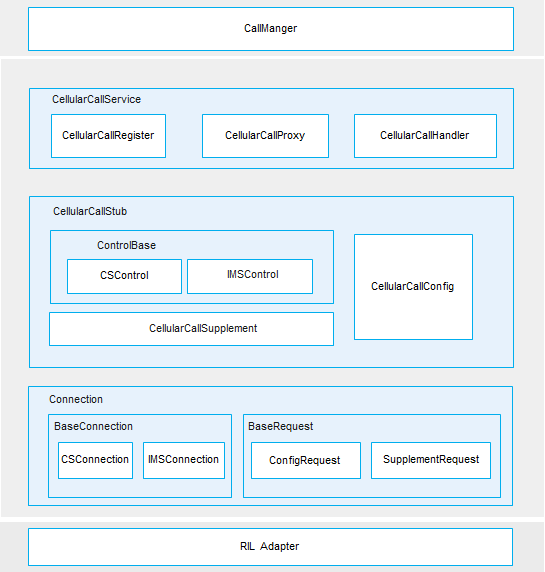
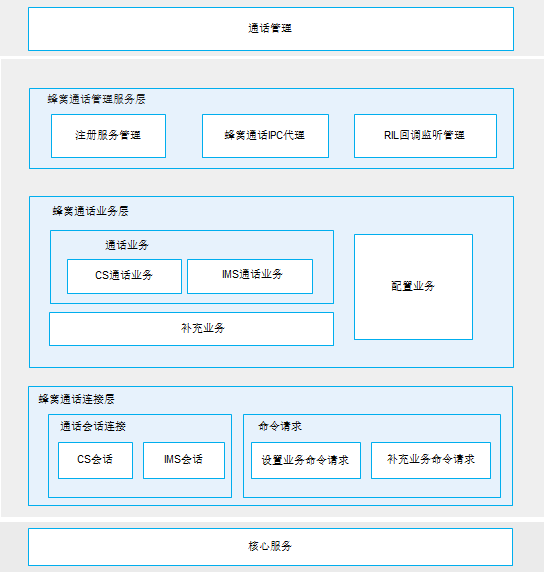
update 1014

diff --git a/README_zh.md b/README_zh.md
@@ -7,7 +7,7 @@
 
 ## 简介<a name="section117mcpsimp"></a>
 
-蜂窝通话支持基于运营商网络的基础通话实现，包含基于2G/3G的CS（Circuit Switch，电路交换）通话和基于4G/5G的IMS（IP Multimedia Subsystem，IP多媒体子系统）通话（VoLTE/ VoWIFI/ VoNR语音、视频、会议），支持CS和IMS通话之间的域选控制和切换，支持紧急通话。支持主流modem芯片平台。
+蜂窝通话支持基于运营商网络的基础通话实现，包含基于2G/3G的CS（Circuit Switch，电路交换）通话和基于4G/5G的IMS（IP Multimedia Subsystem，IP多媒体子系统）通话，包含VoLTE/ VoWIFI/ VoNR语音、视频、会议，支持CS和IMS通话之间的域选控制和切换，支持紧急通话。支持主流modem芯片平台。
 
 其主要的结构及流程如下图所示：
 
@@ -16,11 +16,11 @@
 
 ![](figures/zh-cn_architecture-of-the-cellular-call-module.png)
 
-蜂窝通话子系统由蜂窝通话管理层、蜂窝通话业务处理层、蜂窝通话连接层三大部分组成，其中：
+蜂窝通话模块由蜂窝通话管理层、蜂窝通话业务处理层、蜂窝通话连接层三大部分组成，其中：
 
 1.  蜂窝通话管理层（CellularCallService）：由CellularCallRegister（提供通话信息变化订阅功能）、CellularCallProxy（提供蜂窝通话对外接口实现的代理）、CellularCallHandler（处理RIL Adapter上报的消息）组成。
-2.  蜂窝通话业务层（CellularCallStub）：由CSControl（处理CS通话）&IMSControl（处理IMS通话）、CellularCallConfig（设置查询业务）、CellularCallSupplement（补充业务）组成。
-3.  蜂窝通话连接层（Connection）：由BaseConnection（通话会话连接）、ConfigRequest（设置命令请求）、SupplementRequest（补充业务命令请求）组成。
+2.  蜂窝通话业务层（CellularCallStub）：由CSControl（处理CS通话）&IMSControl（处理IMS通话）、CellularCallConfig（配置业务）、CellularCallSupplement（补充业务）组成。
+3.  蜂窝通话连接层（Connection）：由BaseConnection（会话连接）、ConfigRequest（配置业务命令请求）、SupplementRequest（补充业务命令请求）组成。
 
 ## 目录<a name="section127mcpsimp"></a>
 
@@ -41,8 +41,8 @@
 ## 约束<a name="section131mcpsimp"></a>
 
 -   开发语言：Java Script。
--   软件上，需要与以下服务配合使用：Telephony核心服务（core\_service）、通话管理（call\_manager）。
--   硬件上，需要搭载的设备支持以下硬件：扬声器或听筒、麦克风，可以进行独立蜂窝通信的Modem以及SIM卡。
+-   软件约束：需要与以下服务配合使用：Telephony核心服务（core\_service）、通话管理（call\_manager）。
+-   硬件约束：需要搭载的设备支持以下硬件：扬声器或听筒、麦克风，可以进行独立蜂窝通信的Modem以及SIM卡。
 
 >**说明：**
 >蜂窝通话不对外暴露接口，由通话管理直接调用。
